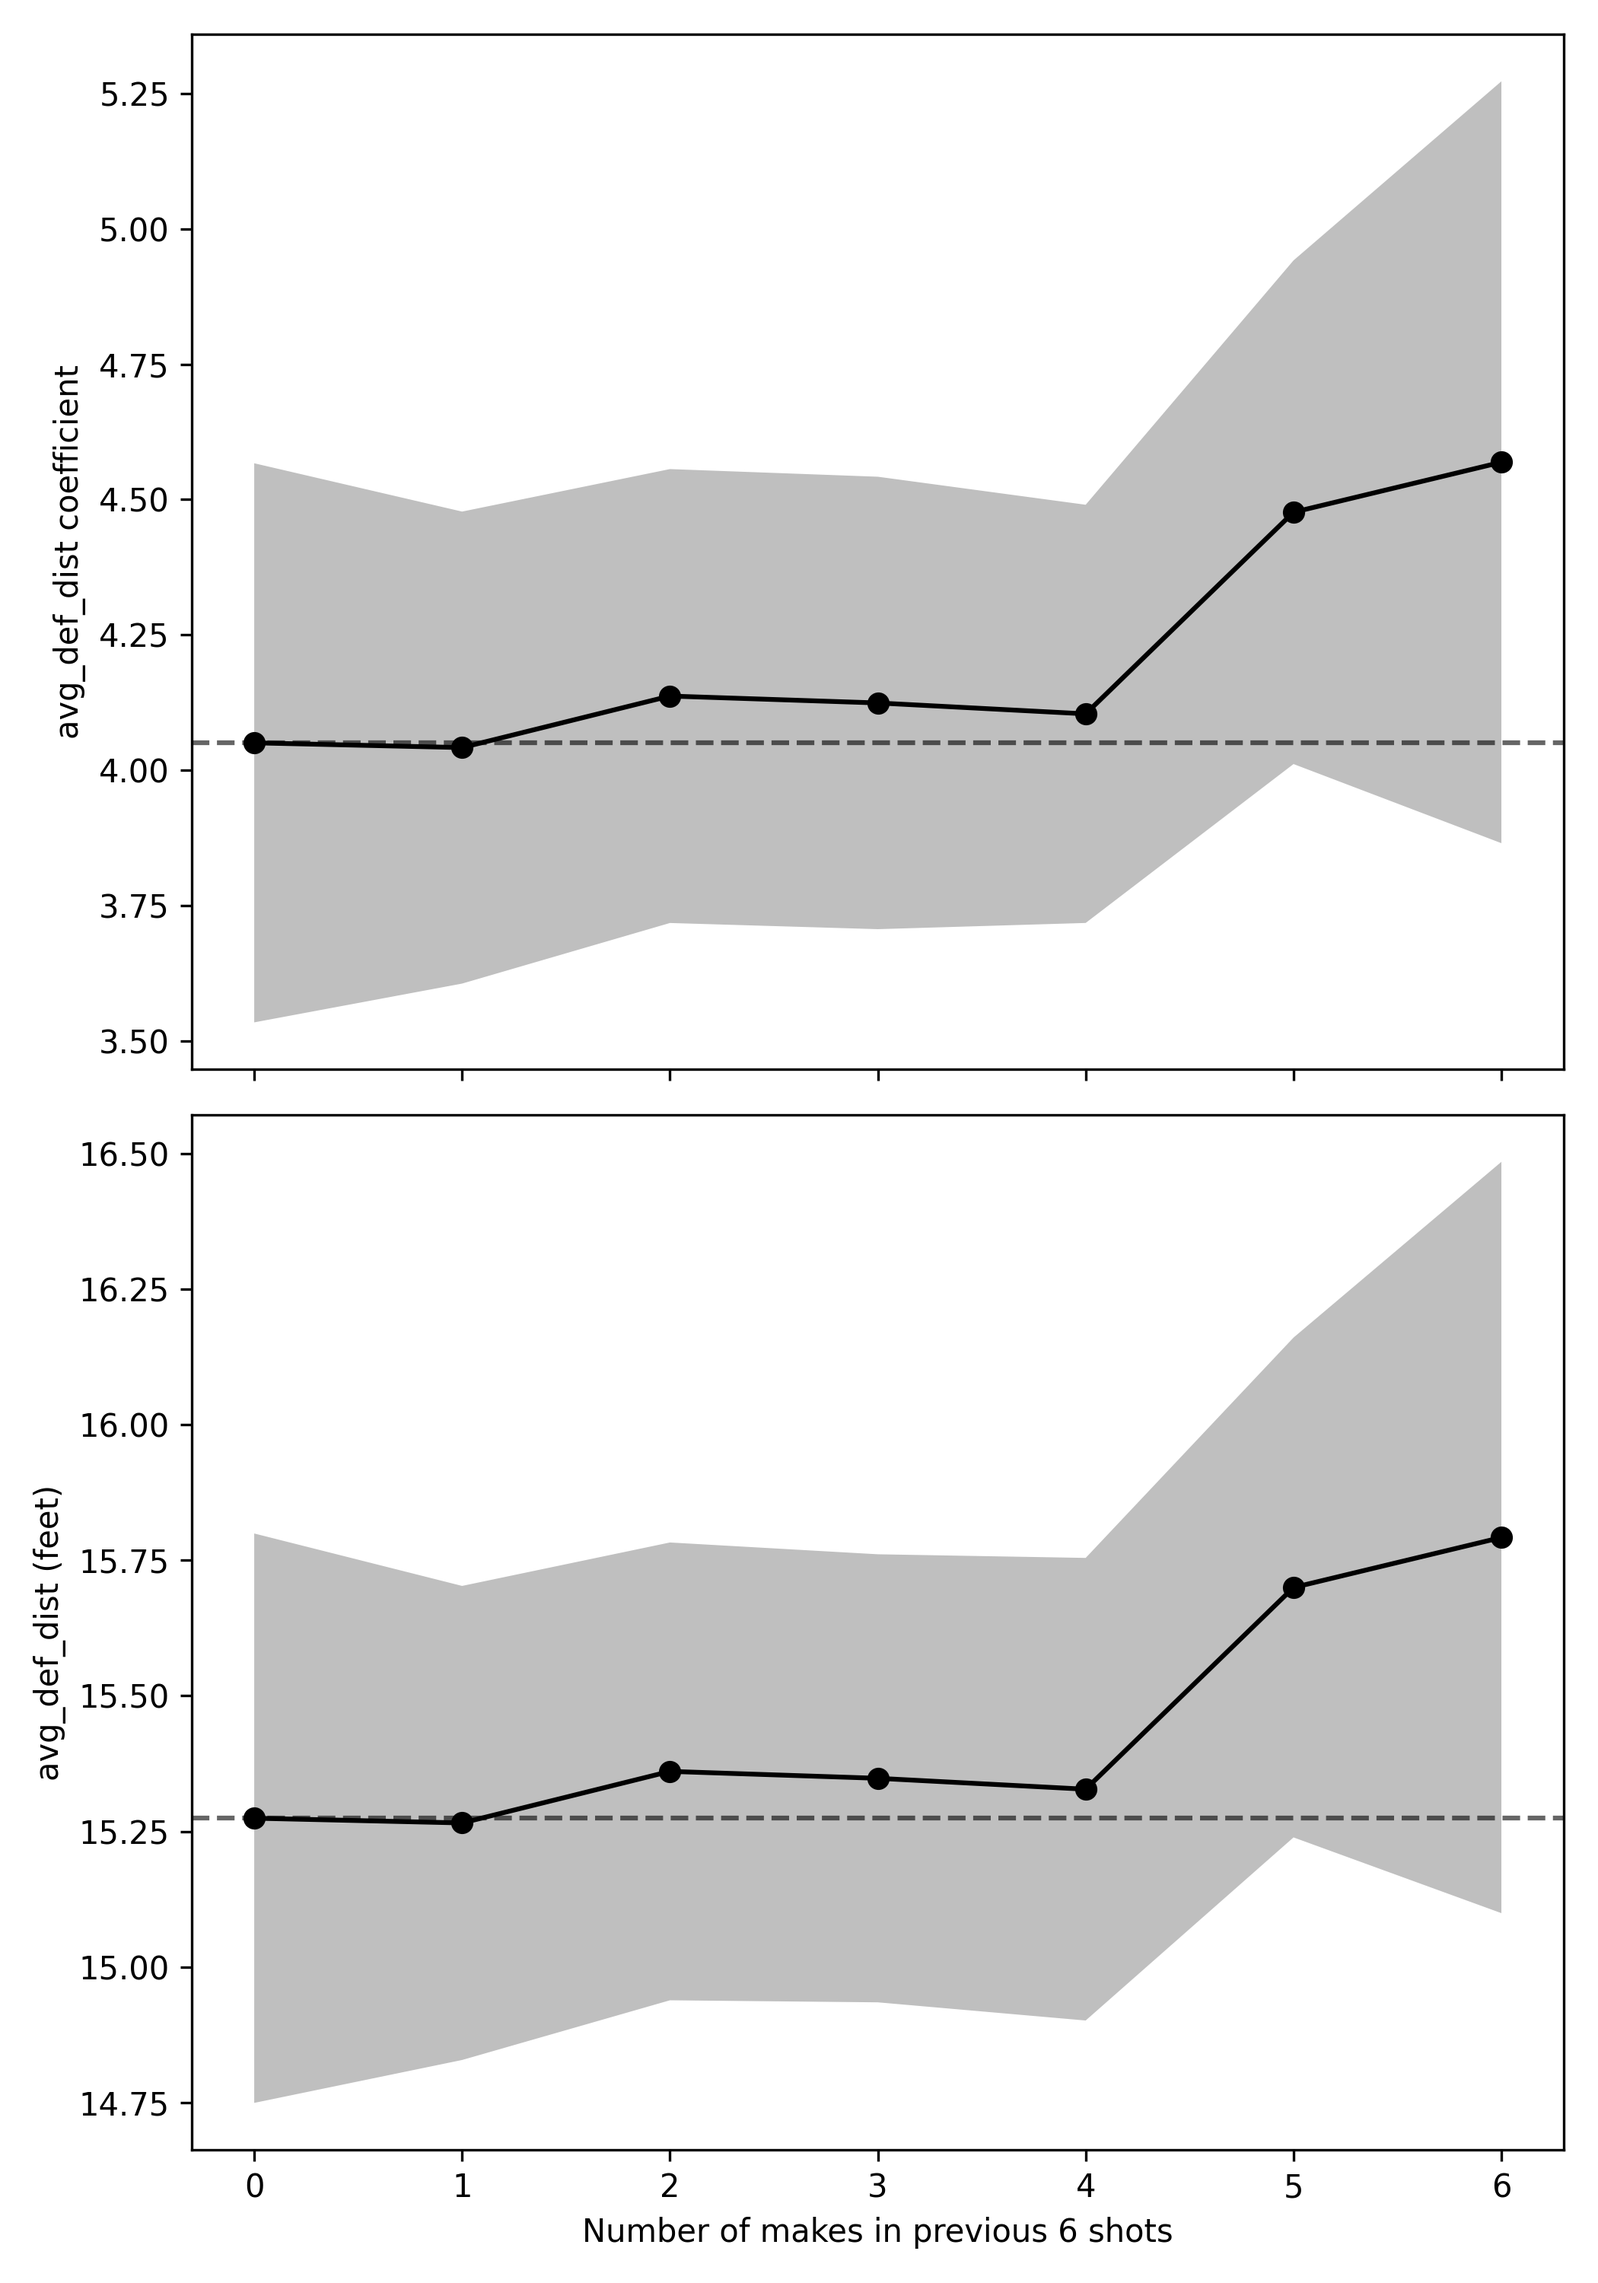
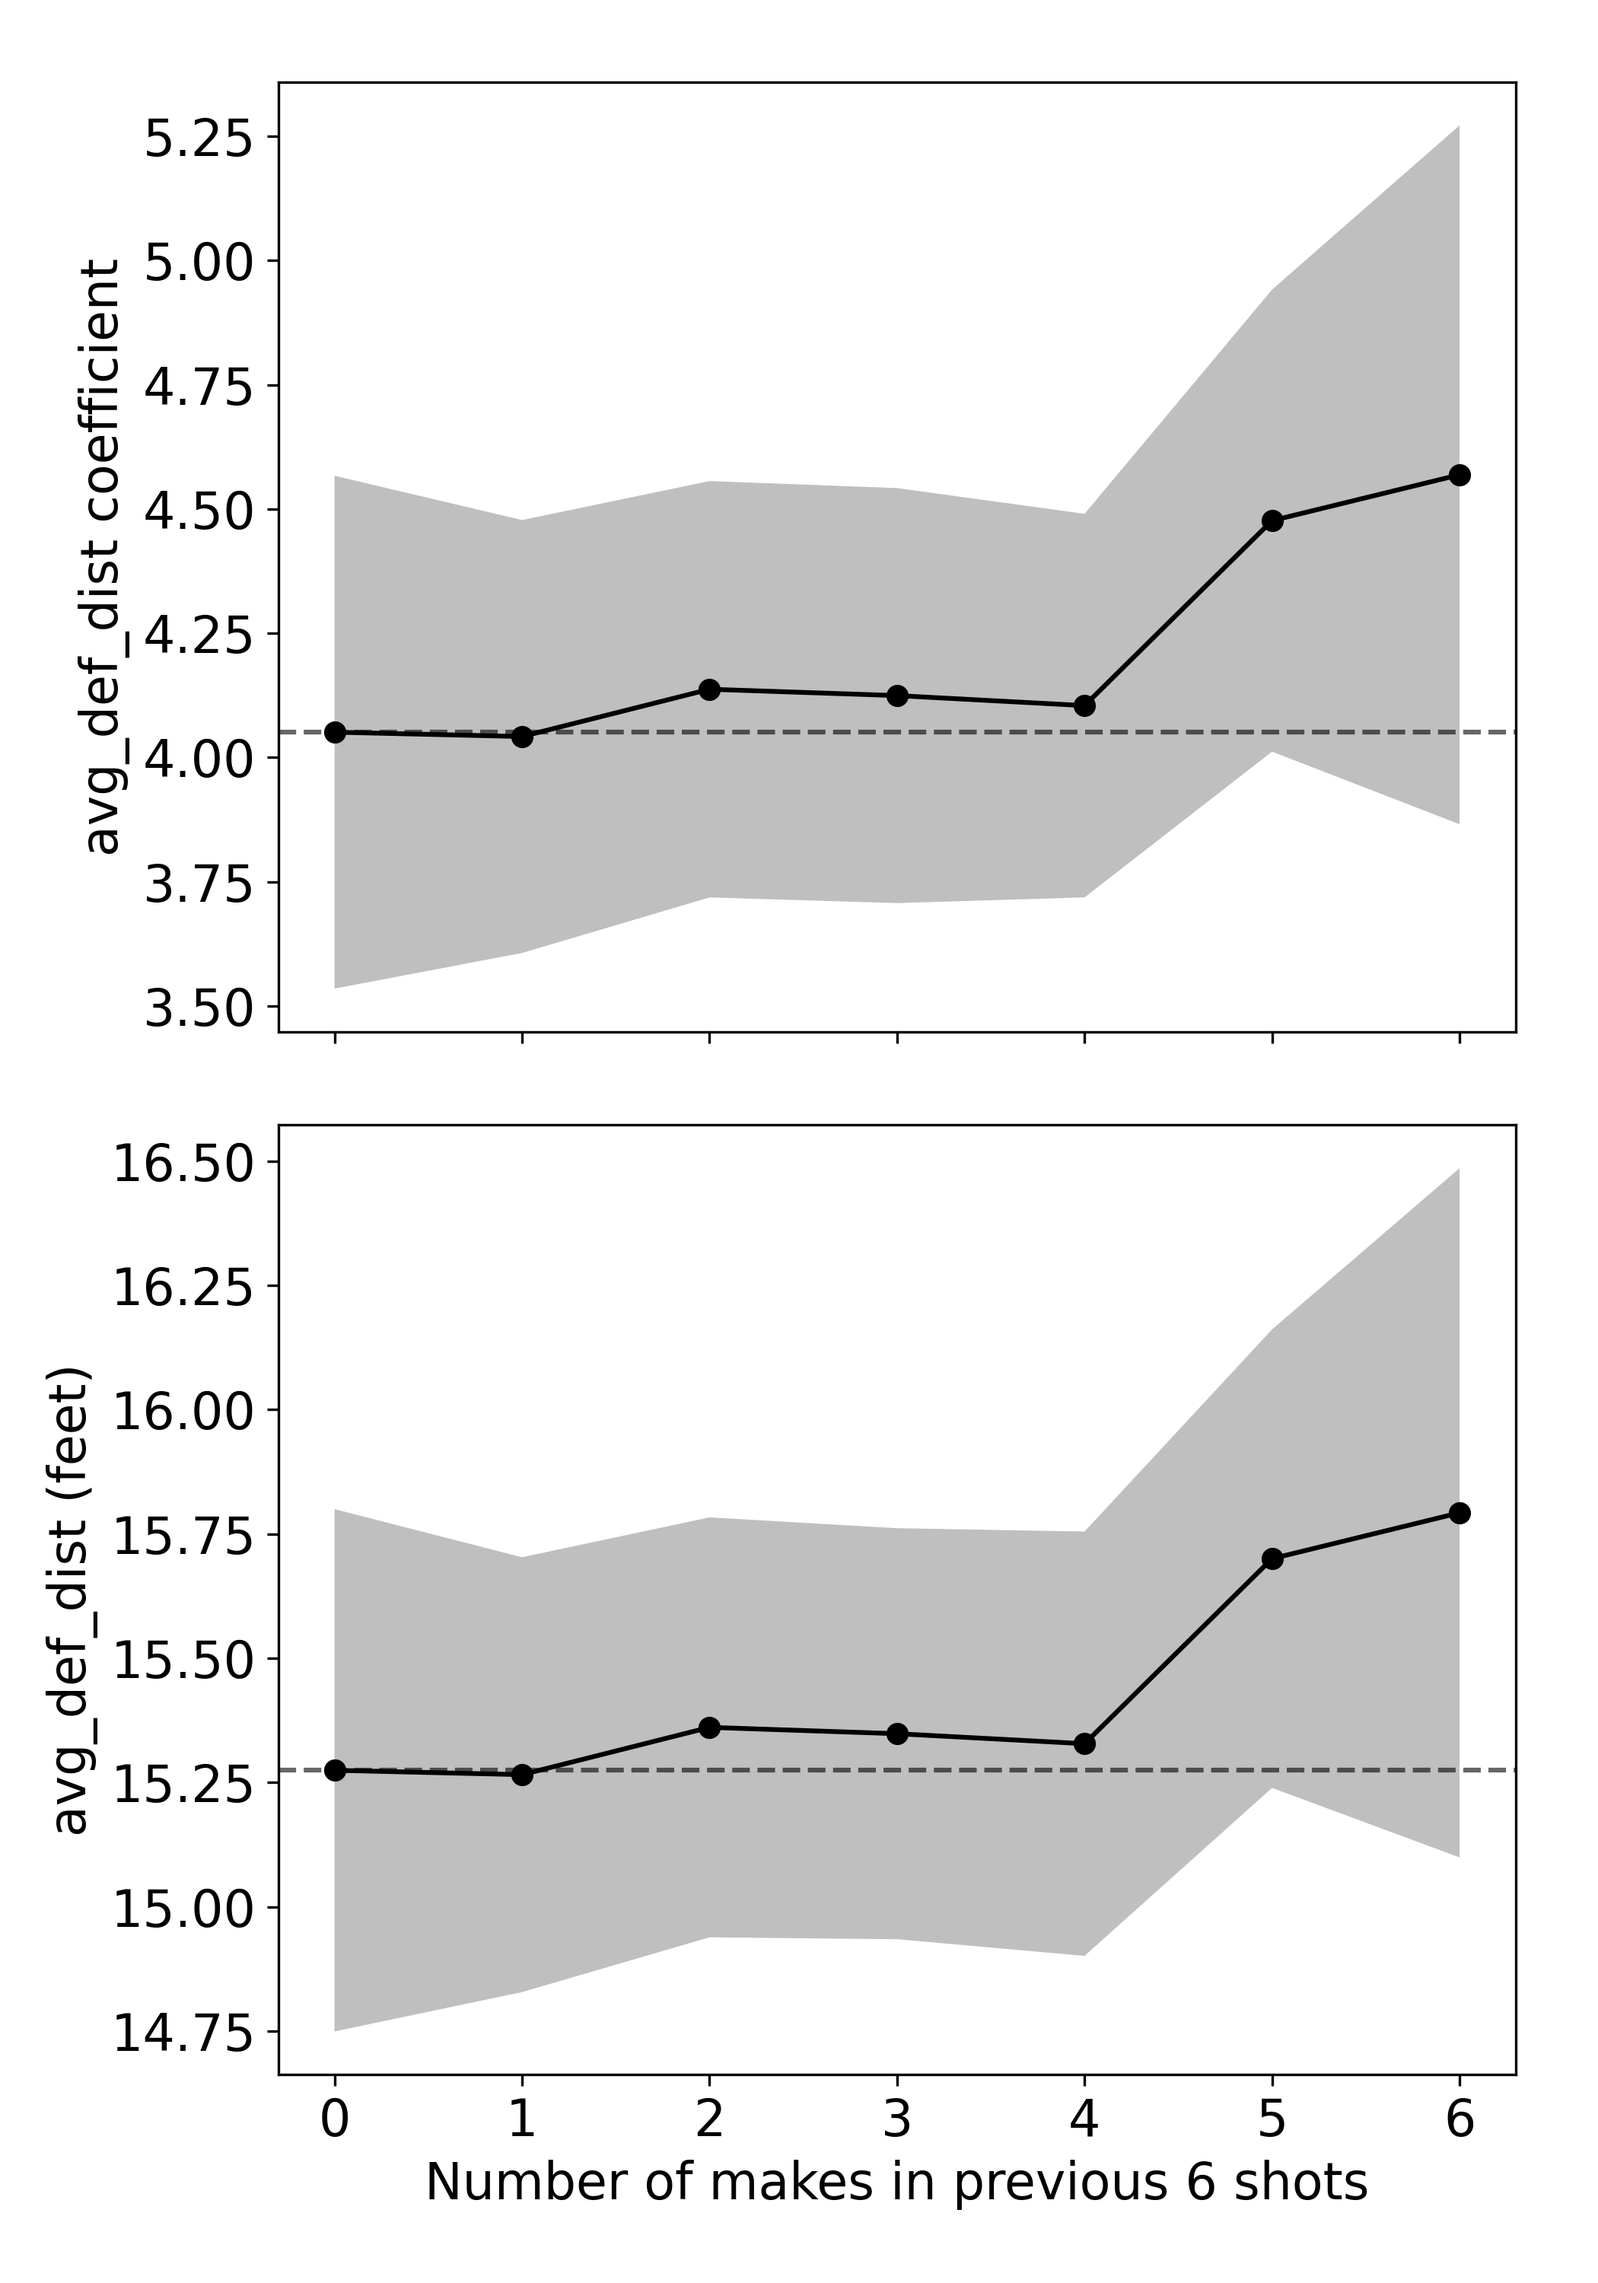
Increase plot text font sizes

diff --git a/src/plots.py b/src/plots.py
@@ -36,11 +36,12 @@ def plot_cis(dfs, x_col, mean_col='mean', low_col='mean_ci_lower', high_col='mea
     for ax, df, y_label in zip(axes, dfs, y_labels):
         ax.plot(df[x_col], df[mean_col], marker='o')
         ax.fill_between(df[x_col], df[low_col], df[high_col], alpha=0.25)
-        ax.set_ylabel(y_label)
+        ax.set_ylabel(y_label, fontsize=16)
         # Mean line for first data point (baseline)
         ax.axhline(df[mean_col].iloc[0], linestyle="--", alpha=0.6)
+        ax.tick_params(axis='both', labelsize=16)
     
-    axes[-1].set_xlabel(x_label)
+    axes[-1].set_xlabel(x_label, fontsize=16)
     plt.tight_layout()
     
     if save_file:
